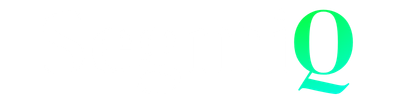
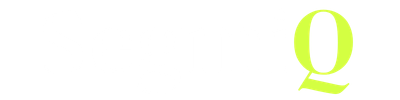
Add light-background wordmark for the blog and refresh platform wordmark assets.

Changed region(s): [[0.72, 0.09, 0.9, 0.96]]

diff --git a/components/marketing/SegmiqWordmark.tsx b/components/marketing/SegmiqWordmark.tsx
@@ -6,22 +6,30 @@ const SIZES = {
   md: { width: 150, height: 24, className: "h-6 w-auto" },
 } as const;
 
+const SRC = {
+  dark: "/segmiq-wordmark.png",
+  light: "/segmiq-wordmark-black.png",
+} as const;
+
 type SegmiqWordmarkProps = {
   href?: string;
   size?: keyof typeof SIZES;
   priority?: boolean;
+  /** dark = white wordmark on black tile (marketing); light = black wordmark for white backgrounds (blog) */
+  theme?: keyof typeof SRC;
 };
 
 export default function SegmiqWordmark({
   href = "/",
   size = "md",
   priority = false,
+  theme = "dark",
 }: SegmiqWordmarkProps) {
   const { width, height, className } = SIZES[size];
 
   const image = (
     <Image
-      src="/segmiq-wordmark.png"
+      src={SRC[theme]}
       alt="Segmiq"
       width={width}
       height={height}

diff --git a/components/blog/BlogHeader.tsx b/components/blog/BlogHeader.tsx
@@ -26,7 +26,7 @@ export default function BlogHeader() {
       <div className="mx-auto max-w-[1180px] px-6 h-16 flex items-center justify-between">
         <div className="flex items-center gap-6">
           <Link href="/" className="flex items-center gap-2.5">
-            <SegmiqWordmark href="" size="md" />
+            <SegmiqWordmark href="" size="md" theme="light" />
             <span className="text-lg font-semibold tracking-tight text-[#5b5b5b]">Blog</span>
           </Link>
           <nav className="hidden lg:flex items-center gap-5 text-sm text-[#5b5b5b] pl-5 border-l border-black/[0.10]">

diff --git a/components/blog/BlogFooter.tsx b/components/blog/BlogFooter.tsx
@@ -9,7 +9,7 @@ export default function BlogFooter() {
     <footer className="border-t border-black/[0.10] py-8">
       <div className="mx-auto max-w-[1180px] px-6 flex flex-col sm:flex-row items-center justify-between gap-3 text-[13px] text-[#8a8a8a]">
         <div className="flex items-center gap-3">
-          <SegmiqWordmark href="/" size="sm" />
+          <SegmiqWordmark href="/" size="sm" theme="light" />
           <span>© {new Date().getFullYear()} Segmiq Blog · blog.segmiq.com</span>
         </div>
         <div className="flex gap-5">
